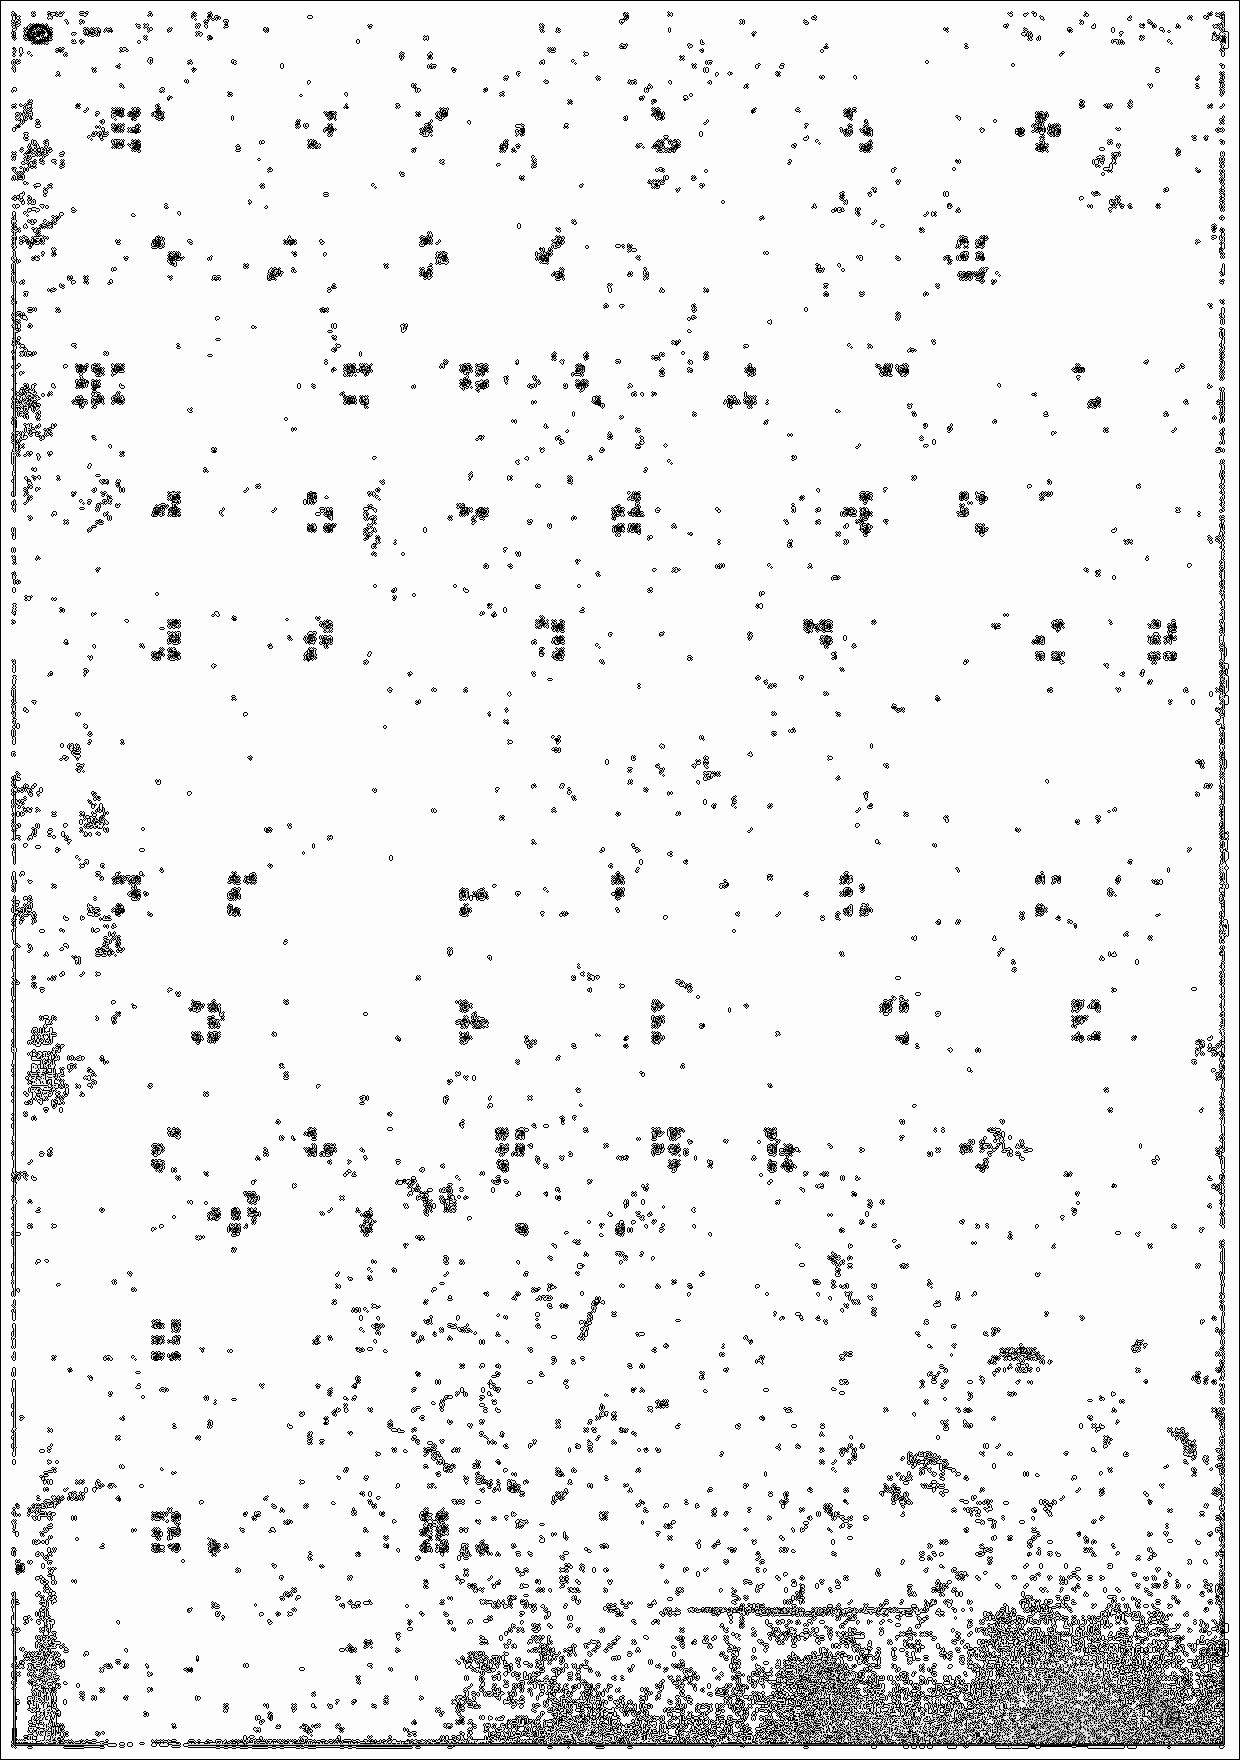
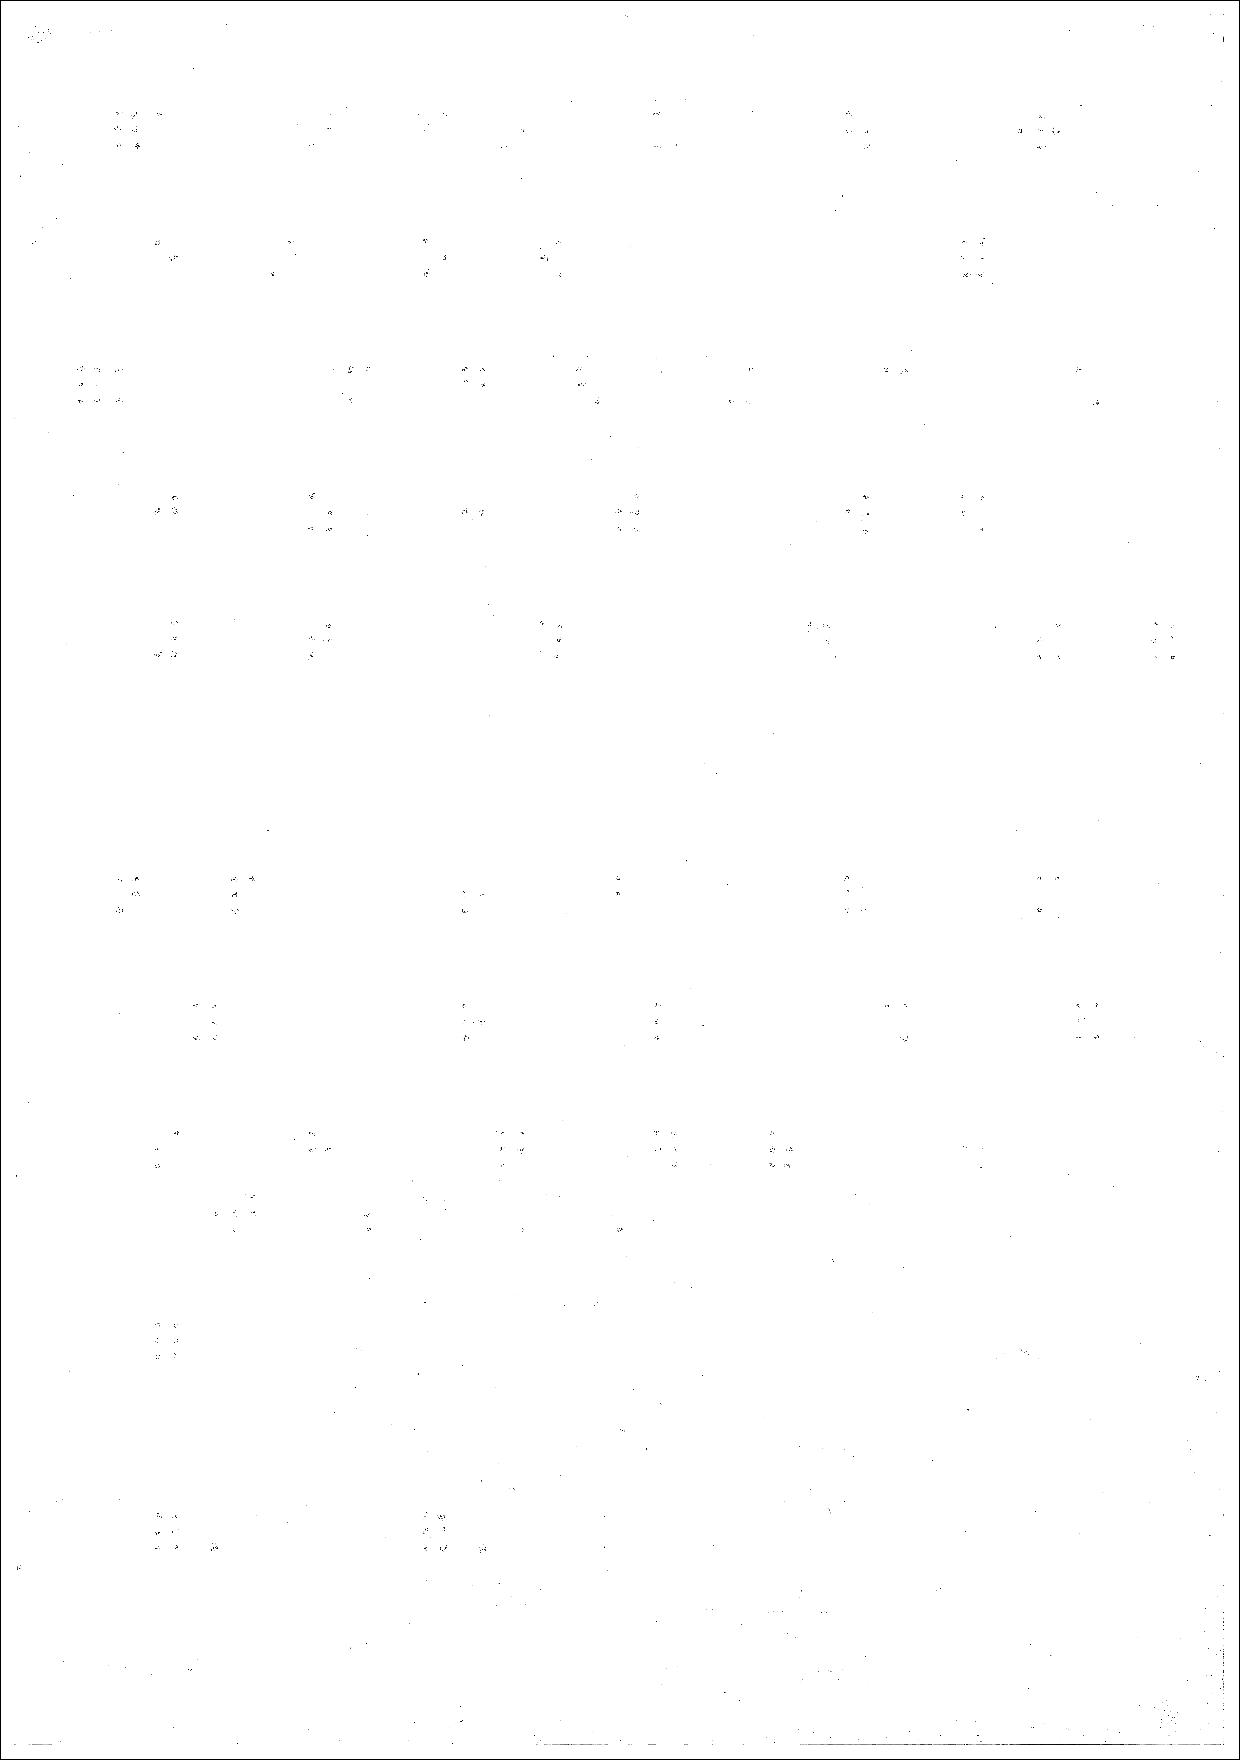
ImageSharpening is refactore

diff --git a/ImageProcessing/src/ImageMasking/ImageSharpening.java b/ImageProcessing/src/ImageMasking/ImageSharpening.java
@@ -10,25 +10,39 @@ private int imgHeight, imgWeight;
 		this.imgHeight = img.getHeight();
 		this.imgWeight = img.getWidth();
 		
-		laplasianFilter1(imageMat);
+		int counter = 1;
+		
+		int[][] lap1 = {{-1,-1,-1},
+						{-1,9,-1},
+						{-1,-1,-1}};
+		
+		int[][] lap2 = {{-1,-1,-1},
+						{-1,10,-1},
+						{-1,-1,-1}};
+		
+		int[][] lap3 = {{0,-1,0},
+						{-1,5,-1},
+						{0,-1,0}};
+		
+		int[][] averageMean = {{1,1,1,1,1},
+								{1,1,1,1,1},
+								{1,1,1,1,1},
+								{1,1,1,1,1},
+								{1,1,1,1,1}};
+		
+		laplasianFilter1(imageMat, lap1, counter);
+		++counter;
+		laplasianFilter1(imageMat, lap2, counter);
+		++counter;
+		laplasianFilter1(imageMat, lap3, counter);
+		++counter;
+		averageMean(imageMat, averageMean, counter);
 	}
 
-	private void laplasianFilter1(int[][] imageMat) {
+	private void laplasianFilter1(int[][] imageMat, int[][] lap, int counter) {
 		int[][] lap1Matrix = new int[imgWeight][imgHeight];
 		
-		/*for(int i = 1; i < imgHeight; i++)
-		{
-			for(int j = 1; j < imgWeight; j++)
-			{
-				
-			}
-		}*/
-		
 		BufferedImage image2 = new BufferedImage(imgWeight, imgHeight, BufferedImage.TYPE_BYTE_GRAY);
-		
-		int[][] lap = {{-1,-1,-1},
-							{-1,9,-1},
-							{-1,-1,-1}};
 		
 		for(int i = 1; i < imgHeight - 1; i++)
 		{
@@ -52,22 +66,31 @@ private int imgHeight, imgWeight;
 		
 		lapMatrixAddWithOriginalImage(lap1Matrix, imageMat);
 		
-		new WriteImage().Write(image2, "src/ImageMasking/Images/", "lap1.jpg");
+		String outputFileName = "lap"+ counter+ ".jpg"; 
+		
+		new WriteImage().Write(image2, "src/ImageMasking/Images/", outputFileName);
 	}
 	
-public void laplasianFilter2(int[][] imageMat) {
+	private void averageMean(int[][] imageMat, int[][] lap, int counter) {
+		int[][] lap1Matrix = new int[imgWeight][imgHeight];
 		
-		BufferedImage image3 = new BufferedImage(imgWeight, imgHeight, BufferedImage.TYPE_BYTE_GRAY);
+		int h = lap.length;
 		
-		int[][] lap = {{-1,-1,-1},
-							{-1,10,-1},
-							{-1,-1,-1}};
+		System.out.println(h);
+		
+		BufferedImage image2 = new BufferedImage(imgWeight, imgHeight, BufferedImage.TYPE_BYTE_GRAY);
 		
 		for(int i = 1; i < imgHeight - 1; i++)
 		{
 			int x = 0;
 			for(int j = 1; j < imgWeight - 1; j++)
 			{
+				for(int k=0; k< h; k++){
+					for(int l=0; l< h; l++){
+						x += lap[l][k] * imageMat[j-1][i-1];
+					}
+				}
+				
 				x = lap[0][0] * imageMat[j-1][i-1] + lap[0][1] * imageMat[j][i-1]+ lap[0][2] * imageMat[j+1][i-1]
 					+ lap[1][0] * imageMat[j-1][i]+ lap[1][1] * imageMat[j][i]+ lap[1][2] * imageMat[j+1][i]
 					+ lap[2][0] * imageMat[j-1][i+1]+ lap[2][1] * imageMat[j][i+1]+ lap[2][2] * imageMat[j+1][i+1];
@@ -76,45 +99,20 @@ public void laplasianFilter2(int[][] imageMat) {
 				
 				x = imageValueChecker(x);
 				
+				lap1Matrix[j][i] = x;
 				Color c = new Color(x, x ,x);
 				
-				image3.setRGB(j, i, c.getRGB());
+				image2.setRGB(j, i, c.getRGB());
 			}
 		}
 		
-		new WriteImage().Write(image3, "src/ImageMasking/Images/", "lap2.jpg");
+		lapMatrixAddWithOriginalImage(lap1Matrix, imageMat);
+		
+		String outputFileName = "lap"+ counter+ ".jpg"; 
+		
+		new WriteImage().Write(image2, "src/ImageMasking/Images/", outputFileName);
 	}
-
-	public void laplasianFilter3(int[][] imageMat) {
-		
-		BufferedImage image4 = new BufferedImage(imgWeight, imgHeight, BufferedImage.TYPE_BYTE_GRAY);
-		
-		int[][] lap = {{0,-1,0},
-							{-1,5,-1},
-							{0,-1,0}};
-		
-		for(int i = 1; i < imgHeight - 1; i++)
-		{
-			int x = 0;
-			for(int j = 1; j < imgWeight - 1; j++)
-			{
-				x = lap[0][0] * imageMat[j-1][i-1] + lap[0][1] * imageMat[j][i-1]+ lap[0][2] * imageMat[j+1][i-1]
-					+ lap[1][0] * imageMat[j-1][i]+ lap[1][1] * imageMat[j][i]+ lap[1][2] * imageMat[j+1][i]
-					+ lap[2][0] * imageMat[j-1][i+1]+ lap[2][1] * imageMat[j][i+1]+ lap[2][2] * imageMat[j+1][i+1];
-				
-				x = Math.abs(x);
-				
-				x = imageValueChecker(x);
-				
-				Color c = new Color(x, x ,x);
-				
-				image4.setRGB(j, i, c.getRGB());
-			}
-		}
-		
-		new WriteImage().Write(image4, "src/ImageMasking/Images/", "lap2.jpg");
-	}
-
+	
 	private void lapMatrixAddWithOriginalImage(int[][] lapMat, int[][] imgMat){
 		int[][] lap1Matrix = new int[imgWeight][imgHeight];
 		BufferedImage image4 = new BufferedImage(imgWeight, imgHeight, BufferedImage.TYPE_BYTE_GRAY);

diff --git a/ImageProcessing/src/ImageMasking/MainApp.java b/ImageProcessing/src/ImageMasking/MainApp.java
@@ -18,8 +18,6 @@ public class MainApp {
 		    
 		    int[][] imgGrayMat = grayScale.getImageGrayScaleMatrix();
 		    ImageSharpening is = new ImageSharpening(img, imgGrayMat);
-		    is.laplasianFilter2(imgGrayMat);
-		    is.laplasianFilter3(imgGrayMat);
 		    
 		} catch (IOException e) {
 			e.printStackTrace();

diff --git a/ImageProcessing/src/Mean_Shift_Clustering/MeanShiftClustering.java b/ImageProcessing/src/Mean_Shift_Clustering/MeanShiftClustering.java
@@ -23,6 +23,7 @@ public class MeanShiftClustering {
 		for(int i=0; i< 20; i++){
 			int randomNumber = Math.random();
 		}*/
+		
 		for(int i=0; i< k.length; i++){
 			k[i] = clusterPixels(k[i], imageMat, i);
 		}

diff --git a/ImageProcessing/src/ImageMasking/AverageMeanFilter.java b/ImageProcessing/src/ImageMasking/AverageMeanFilter.java
@@ -1,0 +1,5 @@
+package ImageMasking;
+
+public class AverageMeanFilter {
+	
+}
